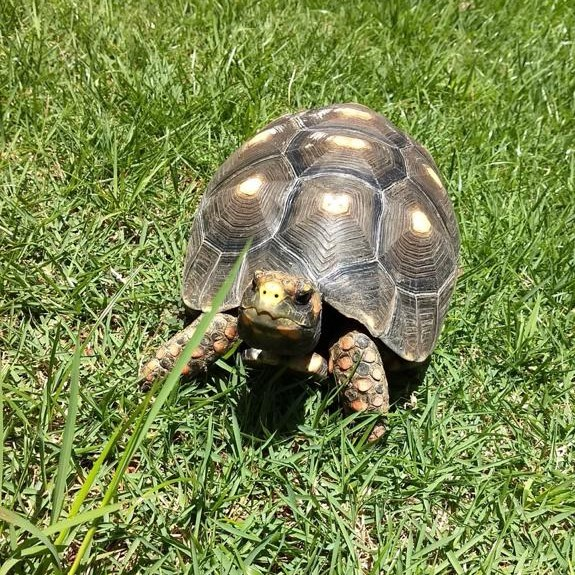
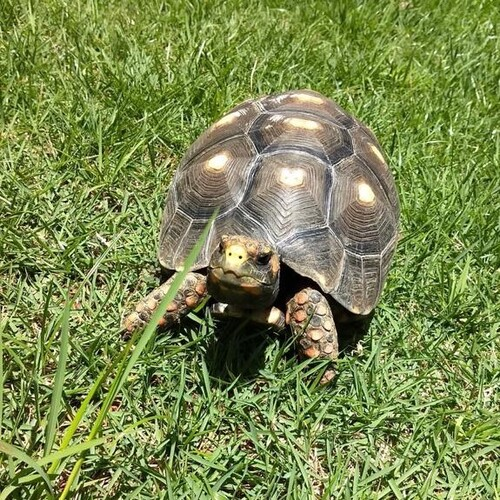
Width format update

diff --git a/AulaHTML/style.css b/AulaHTML/style.css
@@ -21,7 +21,8 @@ body {
 }
 
 .wrapper {
-  width: 30%;
+min-width: 15%;
+max-width: 29%;
 }
 
 .post {
@@ -41,7 +42,7 @@ body {
 }
 
 .post img {
-    width: 100%;
+    max-width: 100%;
     min-width: 15%;
     border:3px dashed #000000;
     border-radius: 200px;
@@ -49,7 +50,6 @@ body {
 }
 .post a {
     color:crimson;
-
 }
 
 .contact{
